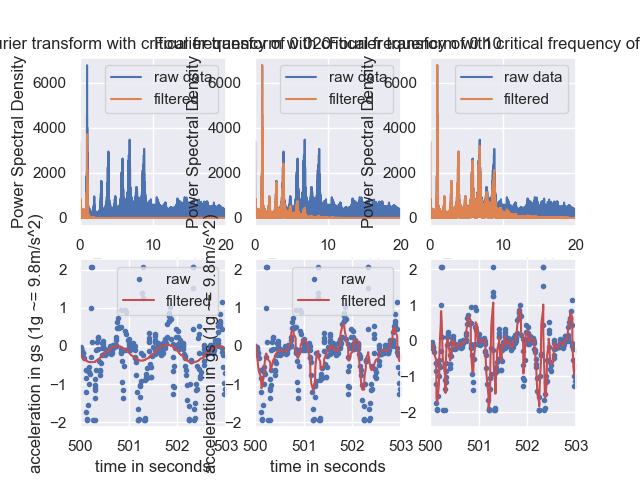
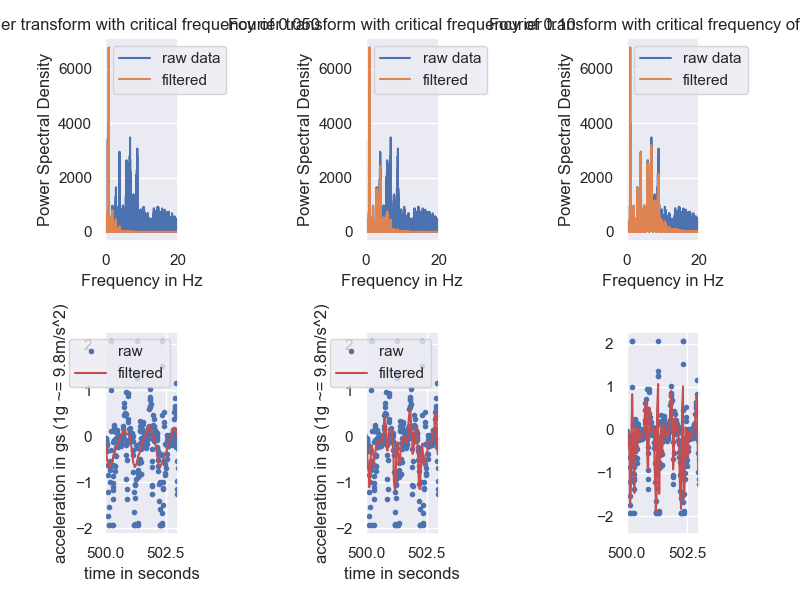
made velocity work for short intervals

diff --git a/Python/big_scale_velocity.py b/Python/big_scale_velocity.py
@@ -18,7 +18,7 @@ def main(in_directory):
     #give columns variable names
     time = data['time']
     x = data['gFx'] 
-    # print(data)
+    print(data)
     # total = data['']
 
     #useful values
@@ -29,16 +29,25 @@ def main(in_directory):
     b, a = signal.butter(3, good_but, btype='lowpass', analog=False)
     filtered_x = signal.filtfilt(b, a, x)
 
-    #Noticed that if window is too large method wont work so this limits window and correct for
+    #lets try to find velocity
     x_acceleration = pd.DataFrame({'time':time,'g-force':filtered_x})
     x_acceleration = x_acceleration[x_acceleration['time']>460]
     x_acceleration = x_acceleration[x_acceleration['time']<480]
     x_acceleration['acceleration'] = x_acceleration['g-force'].multiply(9.81)
-    x_acceleration['acceleration'] = x_acceleration['acceleration']-x_acceleration['acceleration'].mean() 
+    print(x_acceleration)
 
-    # print(x_acceleration['acceleration'].mean())
+    print(x_acceleration)
+    
+    x_acceleration['acceleration'] = x_acceleration['acceleration']-x_acceleration['acceleration'].mean() #x_acceleration['acceleration'].mean()
+    x_acceleration['abs'] = x_acceleration['acceleration'].abs()
+    # x_acceleration = x_acceleration[x_acceleration['abs']>5]
+
+    print(x_acceleration['acceleration'].mean())
     plt.plot(x_acceleration['time'],x_acceleration['acceleration'])
-
+    plt.title('acceleration over time')
+    plt.xlabel('time(s)')
+    plt.ylabel('acceleration m/s$^2$')
+    plt.show()
 
     # # #do some integration to get velocity, note that we run into issue of an ever increasing acceleration
 
@@ -47,40 +56,27 @@ def main(in_directory):
     df = pd.DataFrame()
     df['time'] = x['time']
     df['v'] = x_acceleration['acceleration']
-
+    # df['v'] = integrate.cumtrapz(x_acceleration['acceleration'],x_acceleration['time'],initial=start)
     df = df.set_index('time')
 
+    print(df)
     df = df.rolling(window = 100).apply(integrate.trapz)
-
+    print(df)
     Velocity = integrate.cumtrapz(x_acceleration['acceleration'],x_acceleration['time'],initial=start)
     
-    plt.subplot(1,3,1)
-    plt.plot(x_acceleration['time'],x_acceleration['acceleration'],'g-',label='acceleration')
-    plt.title('acceleration over time')
-    plt.xlabel('time(s)')
-    plt.ylabel('acceleration m/s$^2$')
-    plt.legend()
-
-    plt.subplot(1,3,2)
+    print(df)
+    # x = x[x['v']>0]
     plt.plot(df.index,df['v'],'b-',label='velocity')
+    plt.plot(x_acceleration['time'],x_acceleration['acceleration'],'g-',label='acceleration')
     plt.title('velocity over time')
-    plt.xlabel('time(s)')
-    plt.ylabel('velocity m/s')
-    plt.legend()   
 
-    #integrating the distance and plot
     Dist = integrate.cumtrapz(Velocity,x_acceleration['time'],initial=start)
-    plt.subplot(1,3,3)
-    plt.plot(x_acceleration.iloc[1:,0],Dist[1:],'r-',label='distance') #had to remove first line of plot because of issue with nature of integrals
-    plt.title('distance over time')
-    plt.xlabel('time(s)')
-    plt.ylabel('distance m')
+    plt.plot(x_acceleration['time'],Dist,'r-',label='distance')
     plt.legend()
-    # plt.show()
-    figure = plt.gcf()
-    figure.set_size_inches(8, 6)
-    figure.tight_layout()
-    plt.savefig('Report_and_Figures/vel_dist_short.png',dpi=100)
+    plt.show()
+
+
+
 
 if __name__=='__main__':
     in_directory = sys.argv[1]

diff --git a/Python/KevinAnalysis_Fourier.py b/Python/KevinAnalysis_Fourier.py
@@ -16,7 +16,7 @@ def main(in_directory):
     L= int(data.shape[0])
 
     #butter fractions
-    strin_but= 2/Freq
+    strin_but= 5/Freq
     good_but = 10/Freq
     lax_but =  20/Freq
     #give columns variable names
@@ -103,6 +103,9 @@ def main(in_directory):
     plt.plot(time,x,'b.')
     plt.plot(time,filtered_x,'r-')
     plt.xlim(500,503)
+    figure = plt.gcf()
+    figure.set_size_inches(8, 6)
+    figure.tight_layout()
     plt.savefig('Report_and_Figures/fourier_analysis.png')
     plt.show()
   

diff --git a/Python/KevinAnalysis_filtering.py b/Python/KevinAnalysis_filtering.py
@@ -73,6 +73,9 @@ def main(in_directory):
     plt.xlim(xrange)
     plt.legend(loc='upper right')
     plt.ylim(yrange)
+    figure = plt.gcf()
+    figure.set_size_inches(8, 6)
+    figure.tight_layout()
     plt.savefig('Report_and_Figures/filtering_analysis.png')
     plt.show()
 
